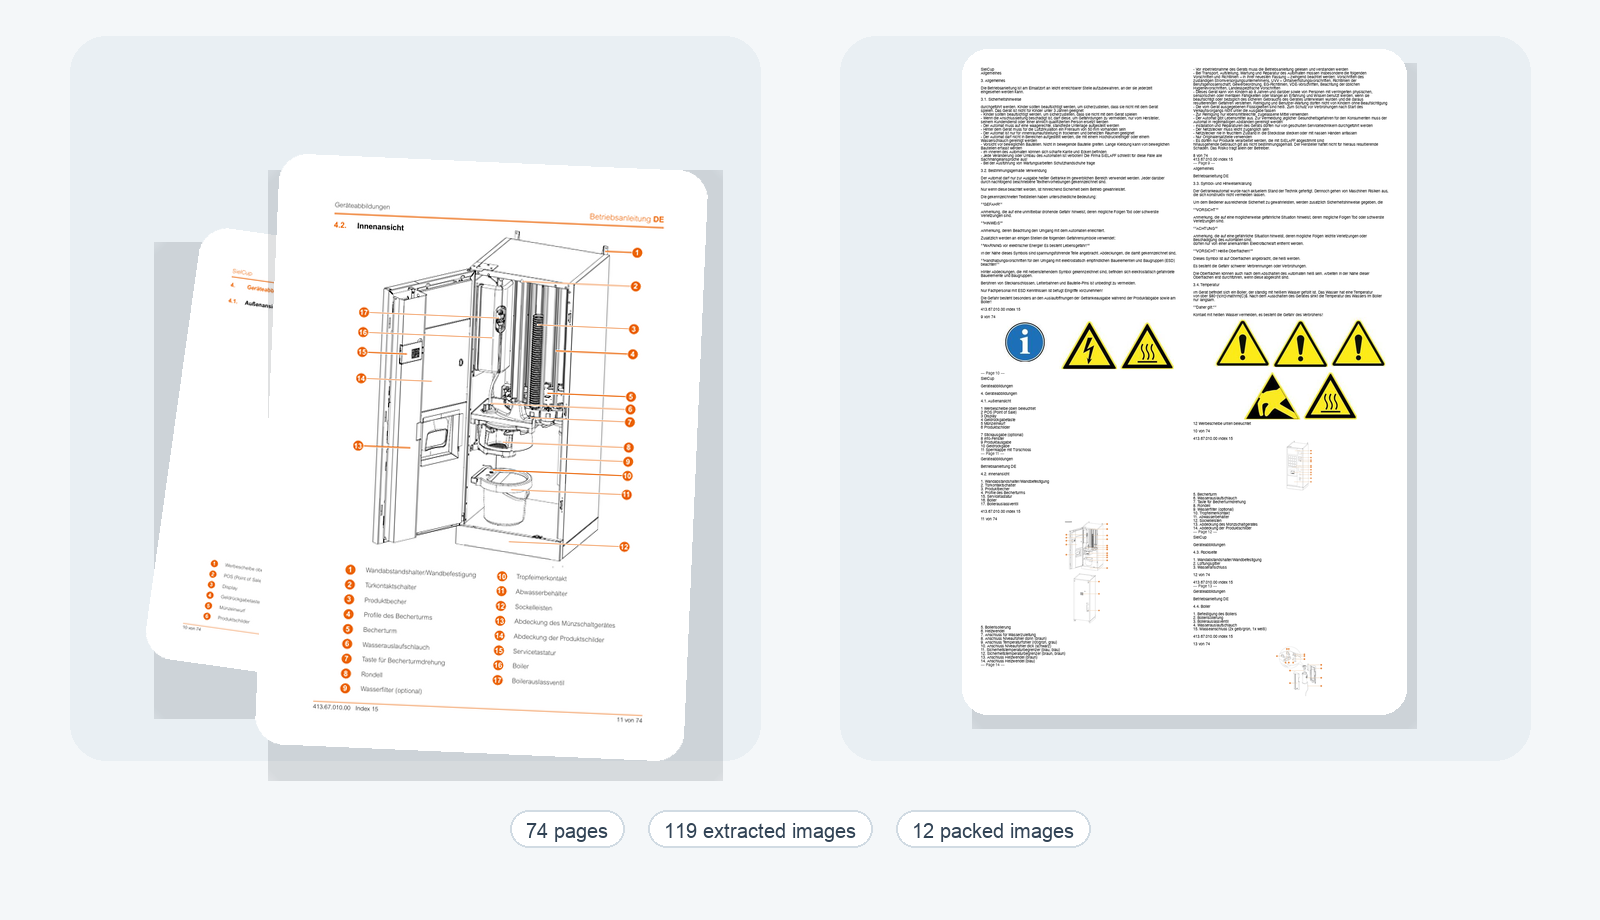
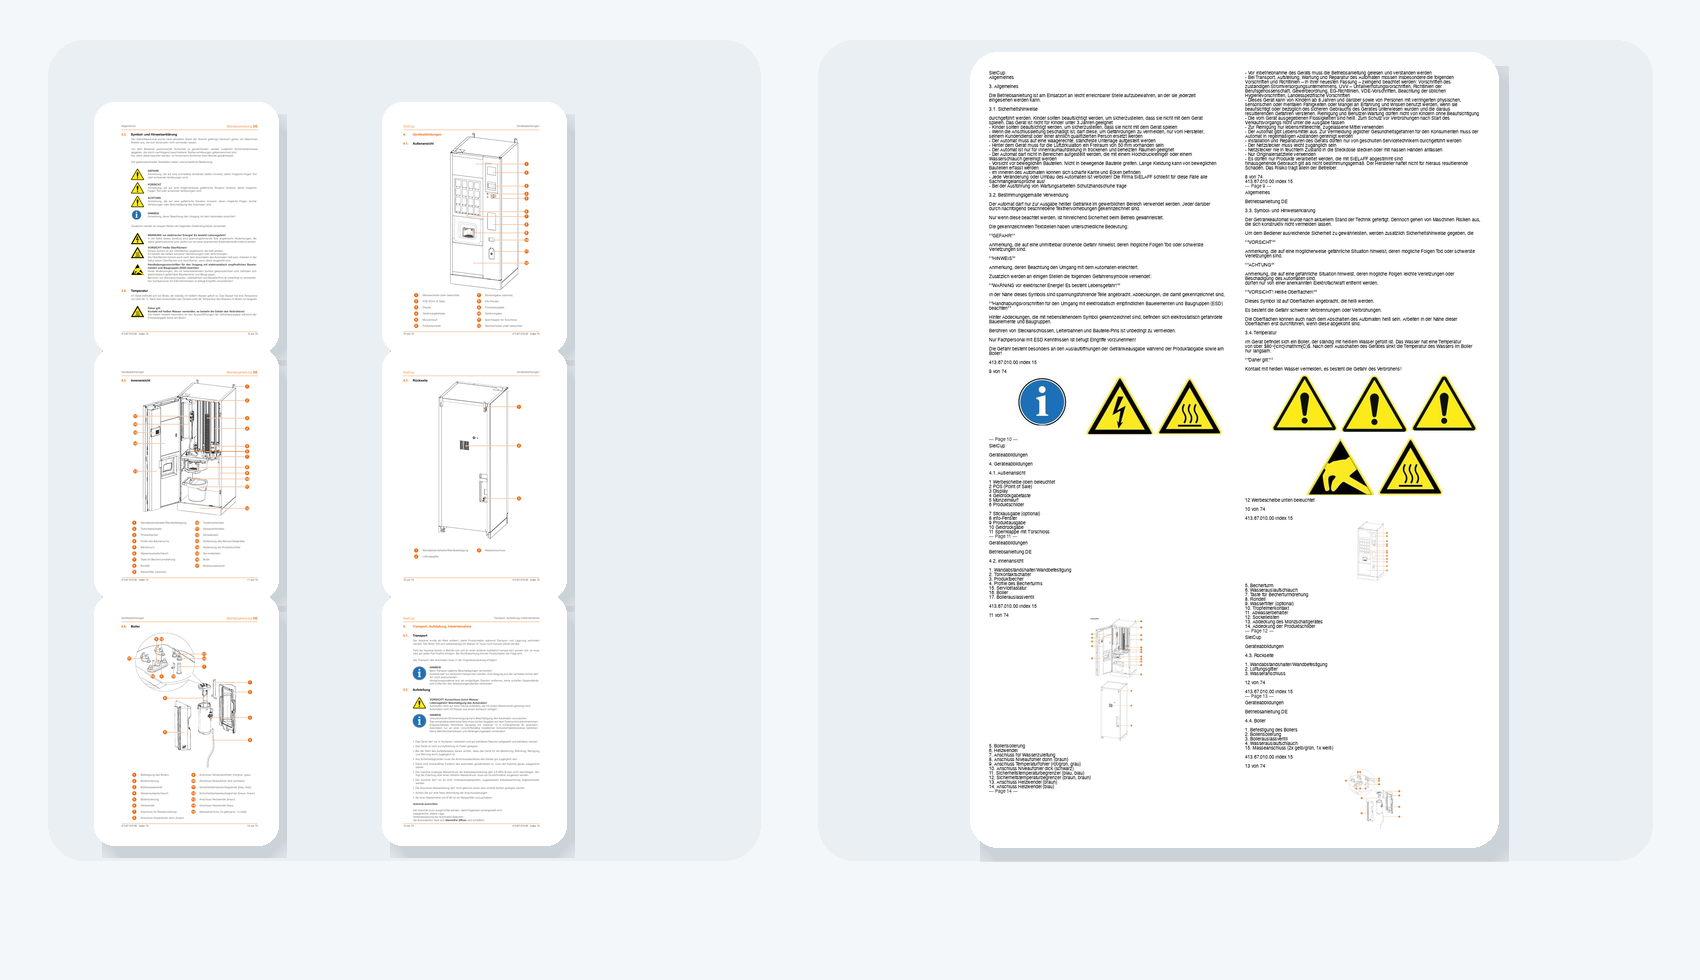
Update README preview to show source page range

diff --git a/README.md b/README.md
@@ -46,7 +46,7 @@ Skip it for:
 
 ## Example Result
 
-The image below shows a real local validation run on a large operating manual with technical diagrams, warning icons, and dense OCR text.
+The image below shows a real local validation run on a large operating manual with technical diagrams, warning icons, and dense OCR text. The packed image on the right consolidates the six source pages shown on the left.
 
 <p align="center">
   <img src="./assets/original-vs-packed-comparison.png" alt="Side-by-side comparison of original pages and the generated packed output" width="980">
@@ -55,6 +55,7 @@ The image below shows a real local validation run on a large operating manual wi
 Example local run facts from the generated manifest:
 
 - source manual pages: 74
+- previewed source page range: 9 to 14
 - extracted images: 119
 - packed output images: 12
 - example packed image size: `982x1512`
